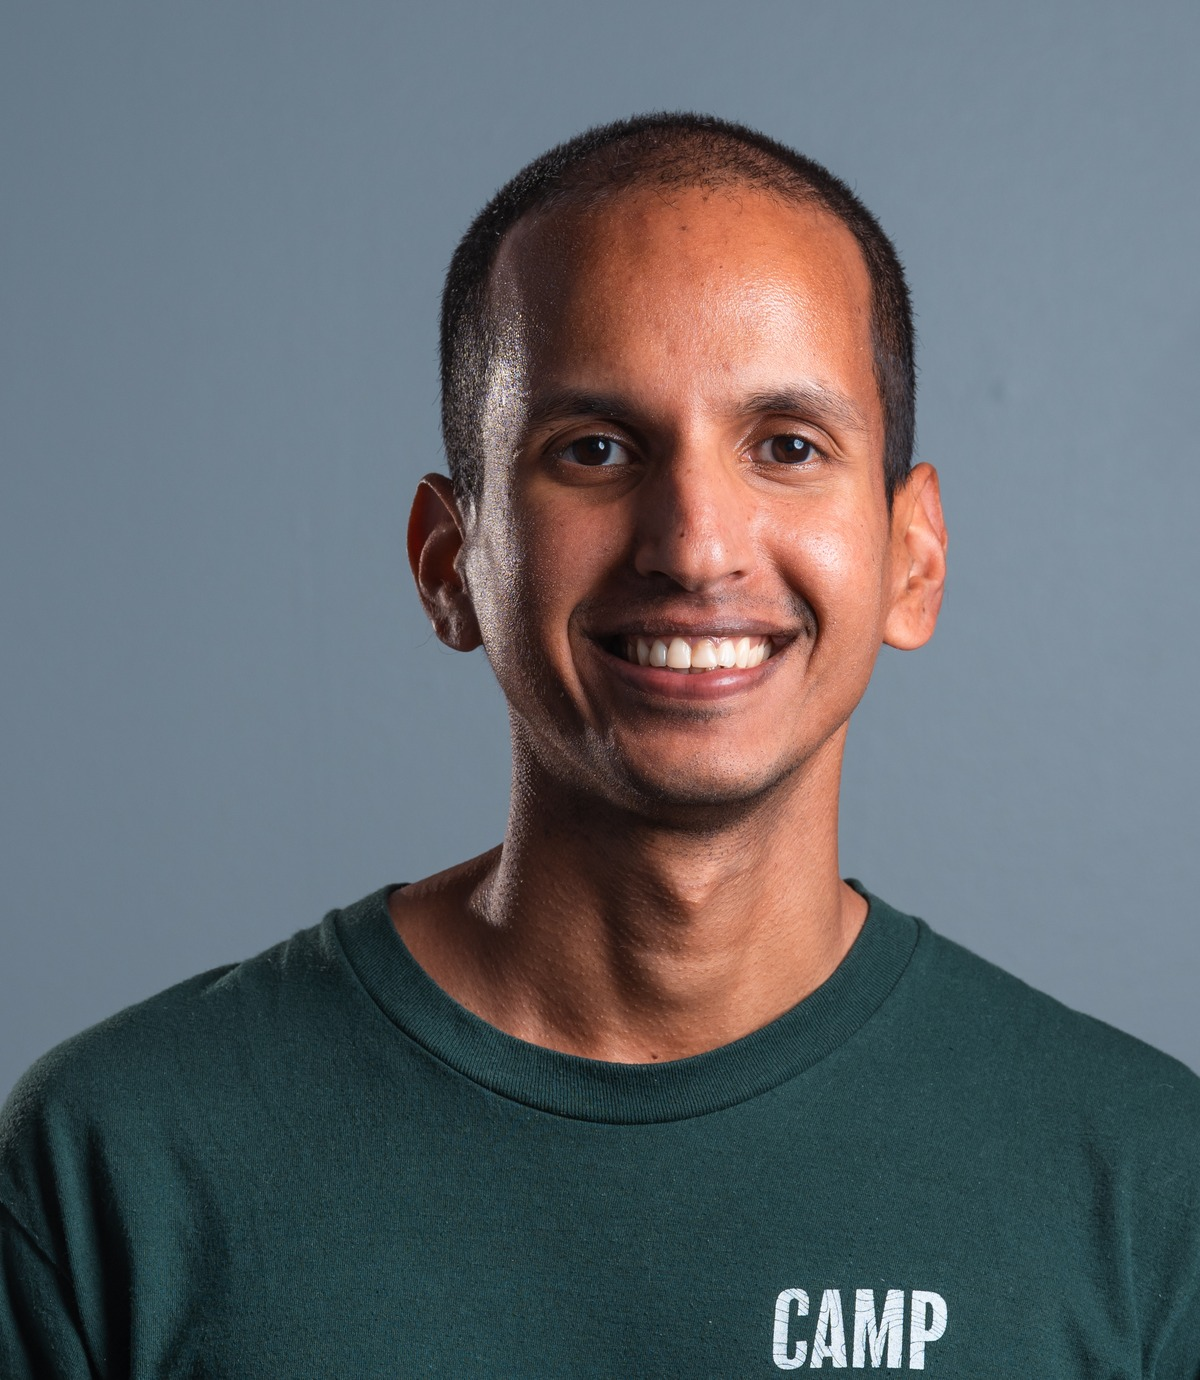
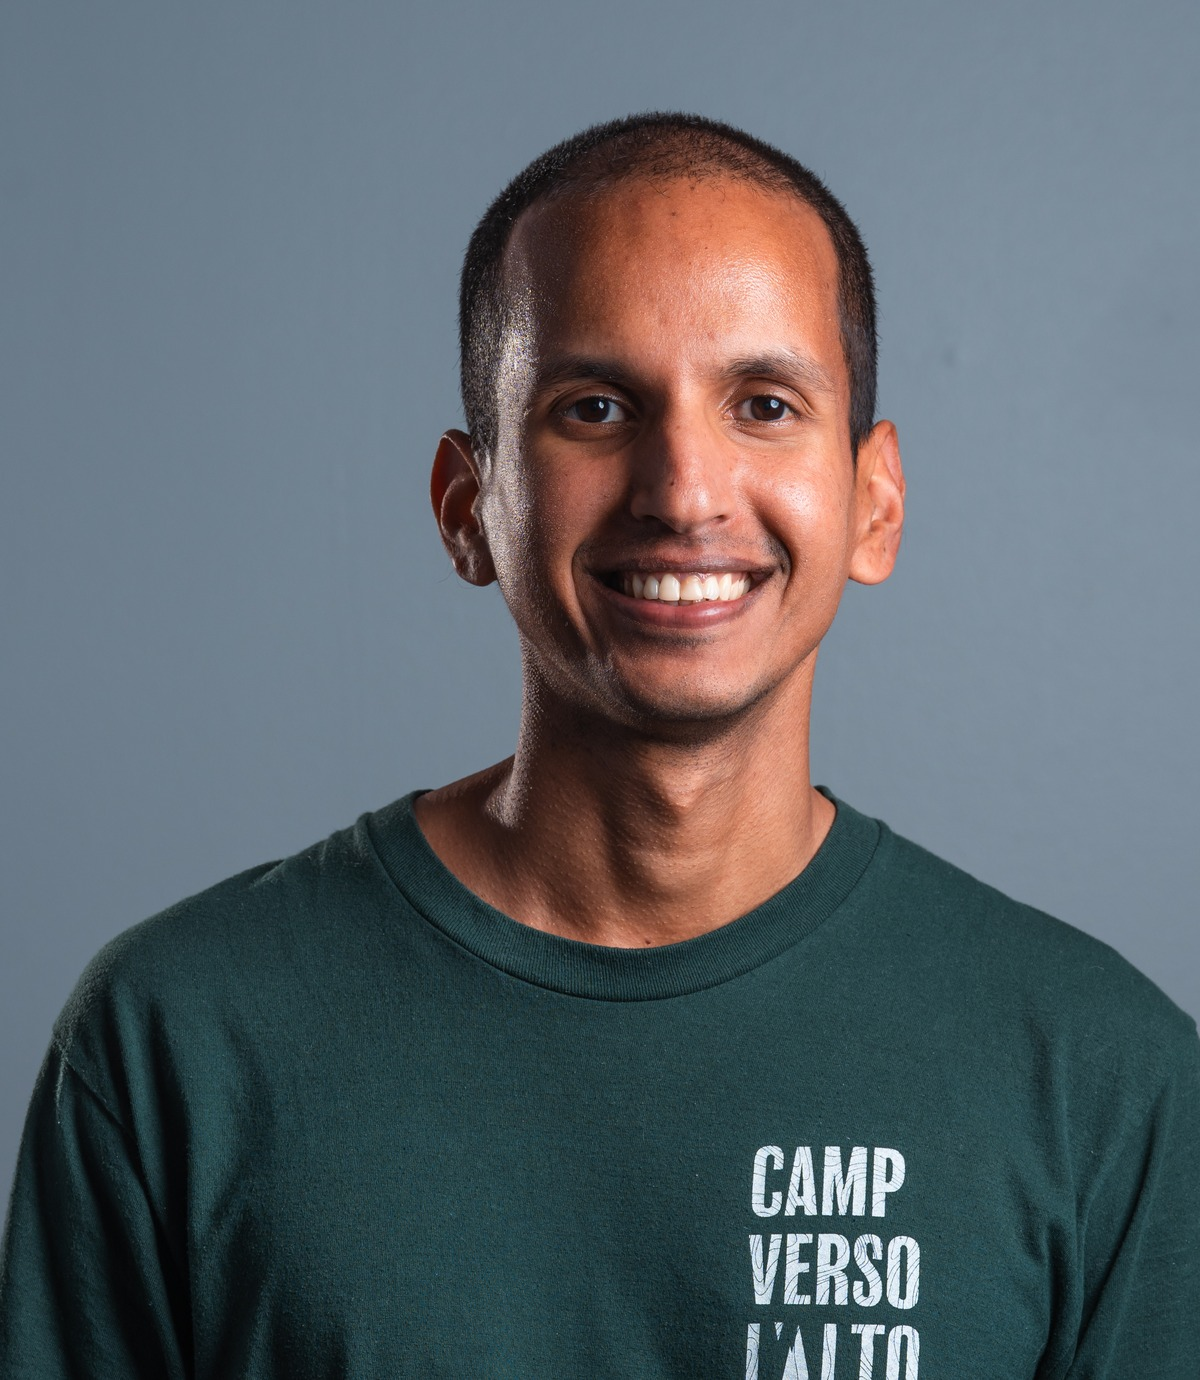
Bold research-interest label; zoom portrait out slightly

diff --git a/index.html b/index.html
@@ -161,7 +161,7 @@
       <h1>Kavi (Yomal Kavinda) Senewiratne</h1>
       <p class="lede">I'm a robotics engineer and technical leader in Austin, TX. As <strong>Team Lead, Application Engineering</strong> at <a href="https://apptronik.com" target="_blank" rel="noopener">Apptronik</a>, I own the technical path of humanoid deployments — from understanding the customer's problem to a validated system doing productive work on their floor, for customers like Mercedes-Benz, GXO and John Deere.</p>
       <p class="lede">Before that I co-architected the Fleet Management System at <a href="https://agilityrobotics.com" target="_blank" rel="noopener">Agility Robotics</a> and completed an M.S. in Robotics at Oregon State University with a thesis on decentralized multi-robot exploration through deep imitation learning.</p>
-      <p class="lede">Research interest: physical AI safety for humanoids — learned models that predict the consequences of whole-body actions and support safe long-horizon planning.</p>
+      <p class="lede"><strong>Research interest:</strong> physical AI safety for humanoids — learned models that predict the consequences of whole-body actions and support safe long-horizon planning.</p>
       <div class="links">
         <a href="mailto:kavi.senewiratne@gmail.com"><svg class="icon" viewBox="0 0 24 24"><rect width="20" height="16" x="2" y="4" rx="2"/><path d="m22 7-8.97 5.7a1.94 1.94 0 0 1-2.06 0L2 7"/></svg>Email</a>
         <a href="https://linkedin.com/in/kavisen" target="_blank" rel="noopener"><svg class="icon" viewBox="0 0 24 24"><path d="M16 8a6 6 0 0 1 6 6v7h-4v-7a2 2 0 0 0-2-2 2 2 0 0 0-2 2v7h-4v-7a6 6 0 0 1 6-6z"/><rect width="4" height="12" x="2" y="9"/><circle cx="4" cy="4" r="2"/></svg>LinkedIn</a>
